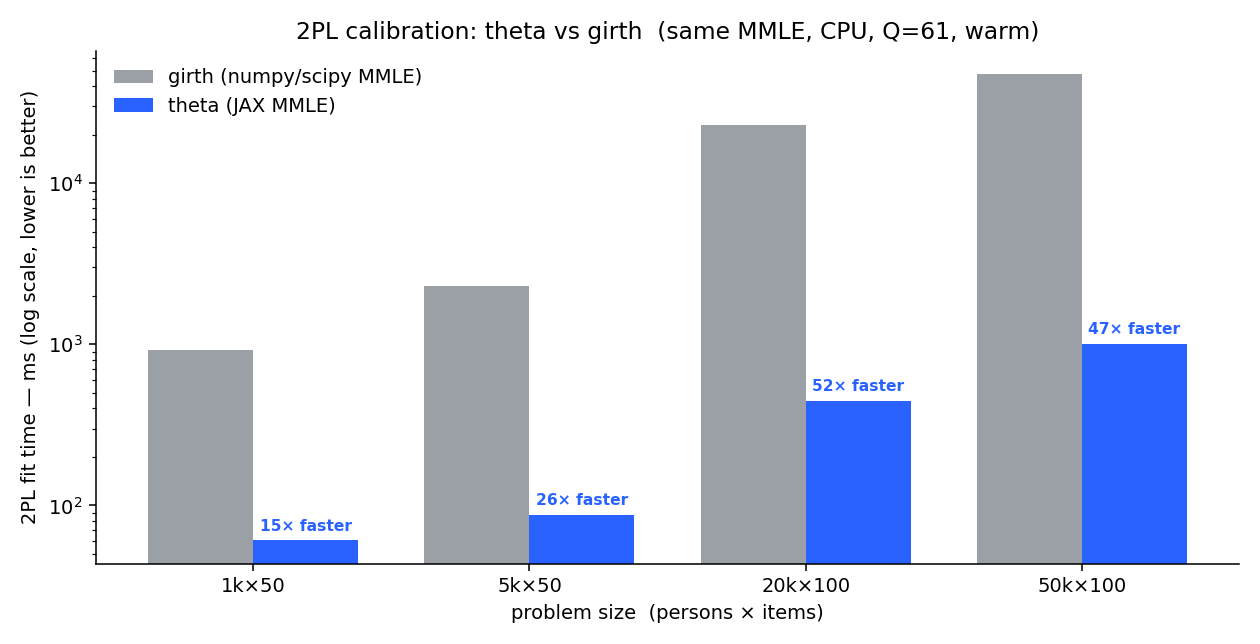
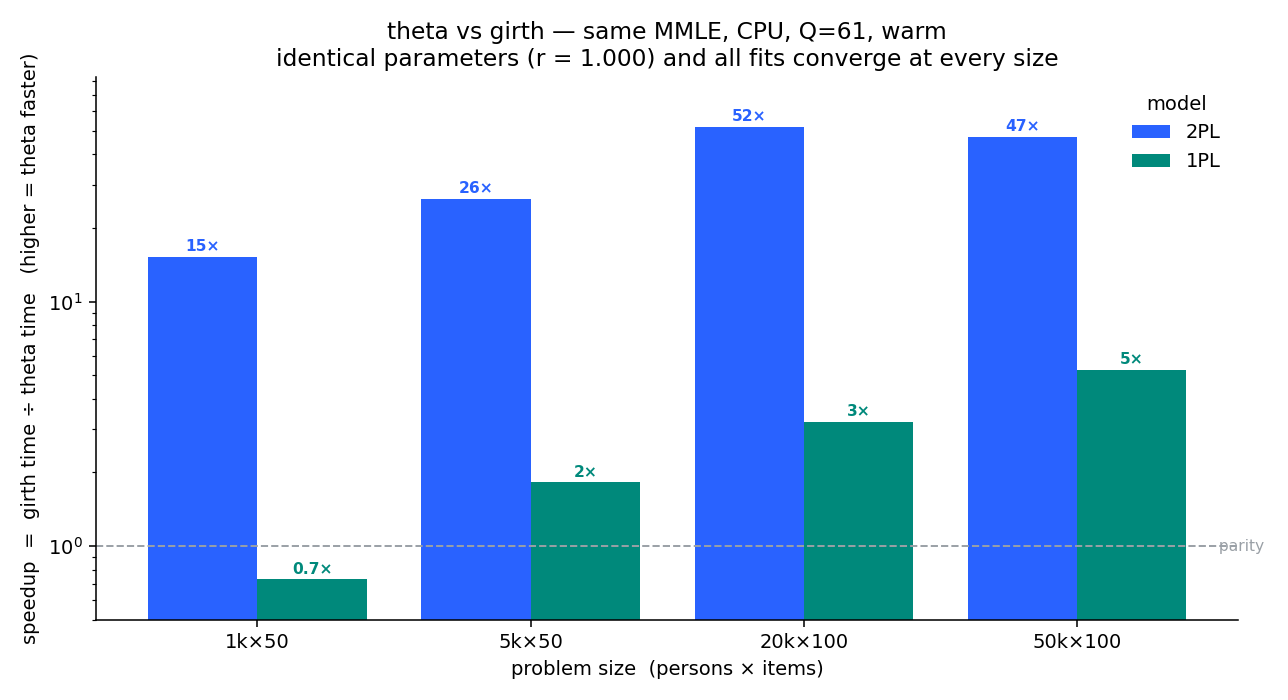
bench: combine 1PL + 2PL into a single speedup chart
One graph instead of two sections: theta-over-girth speedup for both
models across sizes, with a parity line so the sub-1x 1PL point reads
honestly. Unified benchmark table.

diff --git a/bench/compare.py b/bench/compare.py
@@ -52,10 +52,11 @@ def _once(fn):
     return time.perf_counter() - t0
 
 
-def run(models=("1PL", "2PL"), grid=N_GRID):
+def run(models=("2PL", "1PL"), grid=N_GRID):
     if twopl_mml is None:
         raise SystemExit("girth not installed; run `uv add --group bench girth`")
 
+    per_model = {}
     for model in models:
         print(f"\n### {model}")
         rows = []
@@ -92,10 +93,10 @@ def run(models=("1PL", "2PL"), grid=N_GRID):
                   f"{aname}={agree_a:.3f} b corr={agree_b:.3f}")
 
         _print_table(model, rows)
-        path = f"bench/benchmark_{model.lower()}.png"
-        _make_chart(model, rows, path)
-        if model == "2PL":
-            _make_chart(model, rows, "bench/benchmark.png")
+        per_model[model] = rows
+
+    _make_combined_chart(per_model, "bench/benchmark.png")
+    return per_model
 
 
 def _print_table(model, rows):
@@ -108,44 +109,52 @@ def _print_table(model, rows):
               f"{r['agree_a']:.3f}, {r['agree_b']:.3f} |")
 
 
-def _make_chart(model, rows, path):
+_COLORS = {"2PL": "#2962ff", "1PL": "#00897b", "3PL": "#8e24aa", "4PL": "#f4511e"}
+
+
+def _make_combined_chart(per_model, path="bench/benchmark.png"):
+    """One chart: theta-over-girth speedup for every model across problem sizes.
+
+    Speedup = girth time / theta time (higher = theta faster). A dashed parity
+    line at 1x makes any point where girth wins read honestly.
+    """
     import matplotlib
     matplotlib.use("Agg")
     import matplotlib.pyplot as plt
 
-    labels = [f"{r['n']//1000}k×{r['j']}" for r in rows]
-    theta_ms = [r["t_theta"] * 1e3 for r in rows]
-    girth_ms = [r["t_girth"] * 1e3 for r in rows]
-    x = np.arange(len(labels))
-    w = 0.38
+    models = list(per_model)
+    sizes = [f"{r['n']//1000}k×{r['j']}" for r in per_model[models[0]]]
+    x = np.arange(len(sizes))
+    n = len(models)
+    w = 0.8 / n
 
-    fig, ax = plt.subplots(figsize=(9, 4.6), dpi=140)
-    ax.bar(x - w / 2, girth_ms, w, label="girth (numpy/scipy MMLE)", color="#9aa0a6")
-    ax.bar(x + w / 2, theta_ms, w, label="theta (JAX MMLE)", color="#2962ff")
+    fig, ax = plt.subplots(figsize=(9.2, 5.0), dpi=140)
+    for i, mdl in enumerate(models):
+        sp = [r["speedup"] for r in per_model[mdl]]
+        off = (i - (n - 1) / 2) * w
+        ax.bar(x + off, sp, w, label=mdl, color=_COLORS.get(mdl, "#888"))
+        for xi, s in zip(x + off, sp):
+            ax.annotate(f"{s:.0f}×" if s >= 1.5 else f"{s:.1f}×", (xi + off * 0, s),
+                        textcoords="offset points", xytext=(0, 3), ha="center",
+                        fontsize=8, fontweight="bold", color=_COLORS.get(mdl, "#888"))
+
+    ax.axhline(1.0, ls="--", lw=1, color="#9aa0a6")
+    ax.text(len(sizes) - 0.5, 1.0, " parity", va="center", ha="left",
+            fontsize=8, color="#9aa0a6")
     ax.set_yscale("log")
-    ax.set_ylabel(f"{model} fit time — ms (log scale, lower is better)")
+    ax.set_ylim(0.5, max(r["speedup"] for rs in per_model.values() for r in rs) * 1.6)
+    ax.set_ylabel("speedup  =  girth time ÷ theta time   (higher = theta faster)")
     ax.set_xlabel("problem size  (persons × items)")
-    ax.set_title(f"{model} calibration: theta vs girth  (same MMLE, CPU, Q=61, warm)")
-    ax.set_xticks(x, labels)
-    ax.legend(frameon=False)
+    ax.set_title("theta vs girth — same MMLE, CPU, Q=61, warm\n"
+                 "identical parameters (r = 1.000) and all fits converge at every size")
+    ax.set_xticks(x, sizes)
+    ax.legend(title="model", frameon=False)
     ax.spines[["top", "right"]].set_visible(False)
-    for r, xi, t in zip(rows, x, theta_ms):
-        s = r["speedup"]
-        if s >= 1.5:
-            txt, col = f"{s:.0f}× faster", "#2962ff"
-        elif s >= 1.1:
-            txt, col = f"{s:.1f}× faster", "#2962ff"
-        elif s >= 0.9:
-            txt, col = "≈ same", "#5f6368"
-        else:
-            txt, col = f"{s:.1f}× (girth wins)", "#5f6368"
-        ax.annotate(txt, (xi + w / 2, t), textcoords="offset points",
-                    xytext=(0, 5), ha="center", fontsize=8, color=col, fontweight="bold")
     fig.tight_layout()
     fig.savefig(path)
     print(f"wrote {path}")
 
 
 if __name__ == "__main__":
-    models = tuple(m.upper() for m in sys.argv[1:]) or ("1PL", "2PL")
+    models = tuple(m.upper() for m in sys.argv[1:]) or ("2PL", "1PL")
     run(models)

diff --git a/README.md b/README.md
@@ -21,40 +21,28 @@ errs = model.standard_errors(responses)
 
 ## Benchmark
 
-`theta` and [`girth`](https://github.com/eribean/girth) fit the **same** model by
+`theta` and [`girth`](https://github.com/eribean/girth) fit the **same** models by
 the **same** method — Marginal Maximum Likelihood on a 61-point Gauss–Hermite
 grid — so this is apples-to-apples. At every size both libraries **converge** and
 recover **identical parameters** (Pearson r = 1.000), so the speed is not bought
-with a worse fit. CPU (Apple M-series), `Q = 61`, warm (JIT already compiled);
-log scale, lower is better. Reproduce with
-`uv run --group bench python bench/compare.py`.
+with a worse fit.
 
-### 2PL — `theta` is 15–50× faster, and the gap widens with scale
+![theta vs girth speedup, 1PL and 2PL](https://raw.githubusercontent.com/vuciv/theta/main/bench/benchmark.png)
 
-![2PL calibration: theta vs girth](https://raw.githubusercontent.com/vuciv/theta/main/bench/benchmark.png)
+> theta-over-girth speedup (`girth time ÷ theta time`, higher = theta faster).
+> CPU (Apple M-series), `Q = 61`, warm (JIT already compiled). On 2PL `theta` is
+> 15–50× faster; on the lightweight 1PL/Rasch fit it is ~even on tiny problems
+> and pulls ahead with scale. Reproduce with
+> `uv run --group bench python bench/compare.py`.
 
-| size (persons × items) | theta | girth | speedup | param agreement (a, b) |
-|---|--:|--:|--:|--:|
-| 1,000 × 50    | **61 ms**  | 923 ms  | **15×** | 1.000, 1.000 |
-| 5,000 × 50    | **88 ms**  | 2.3 s   | **26×** | 1.000, 1.000 |
-| 20,000 × 100  | **0.44 s** | 22.9 s  | **52×** | 1.000, 1.000 |
-| 50,000 × 100  | **1.0 s**  | 47.6 s  | **47×** | 1.000, 1.000 |
-
-### 1PL — converges everywhere, faster at scale
-
-`theta`'s 1PL estimates a single shared discrimination plus per-item difficulty.
-girth's 1PL/Rasch routine is lightweight, so the two are roughly even on small
-problems; `theta` pulls ahead as the matrix grows (up to ~5× at 50k×100). Every
-fit **converges** (32–50 EM iterations) and matches girth's parameters exactly.
-
-![1PL calibration: theta vs girth](https://raw.githubusercontent.com/vuciv/theta/main/bench/benchmark_1pl.png)
-
-| size (persons × items) | theta | girth | speedup | converged | param agreement (a, b) |
-|---|--:|--:|--:|:--:|--:|
-| 1,000 × 50    | 80 ms      | **58 ms** | 0.7×    | yes (37 it) | 1.000, 1.000 |
-| 5,000 × 50    | **96 ms**  | 174 ms    | **1.8×** | yes (32 it) | 1.000, 1.000 |
-| 20,000 × 100  | **0.46 s** | 1.5 s     | **3.2×** | yes (49 it) | 0.999, 1.000 |
-| 50,000 × 100  | **0.89 s** | 4.7 s     | **5.3×** | yes (50 it) | 0.999, 1.000 |
+| model | size (persons × items) | theta | girth | speedup | converged | agreement (a, b) |
+|:--|--|--:|--:|--:|:--:|--:|
+| 2PL | 1,000 × 50   | **61 ms**  | 923 ms | **15×**  | yes | 1.000, 1.000 |
+| 2PL | 20,000 × 100 | **0.44 s** | 22.9 s | **52×**  | yes | 1.000, 1.000 |
+| 2PL | 50,000 × 100 | **1.0 s**  | 47.6 s | **47×**  | yes | 1.000, 1.000 |
+| 1PL | 1,000 × 50   | 80 ms      | **58 ms** | 0.7×  | yes | 1.000, 1.000 |
+| 1PL | 20,000 × 100 | **0.46 s** | 1.5 s  | **3.2×** | yes | 0.999, 1.000 |
+| 1PL | 50,000 × 100 | **0.89 s** | 4.7 s  | **5.3×** | yes | 0.999, 1.000 |
 
 **`theta` scaling on its own** (2PL, 50 items, warm): **100k** persons in 0.9 s,
 **500k** in 4.8 s — roughly **5M responses/s** on a laptop CPU, and the identical
